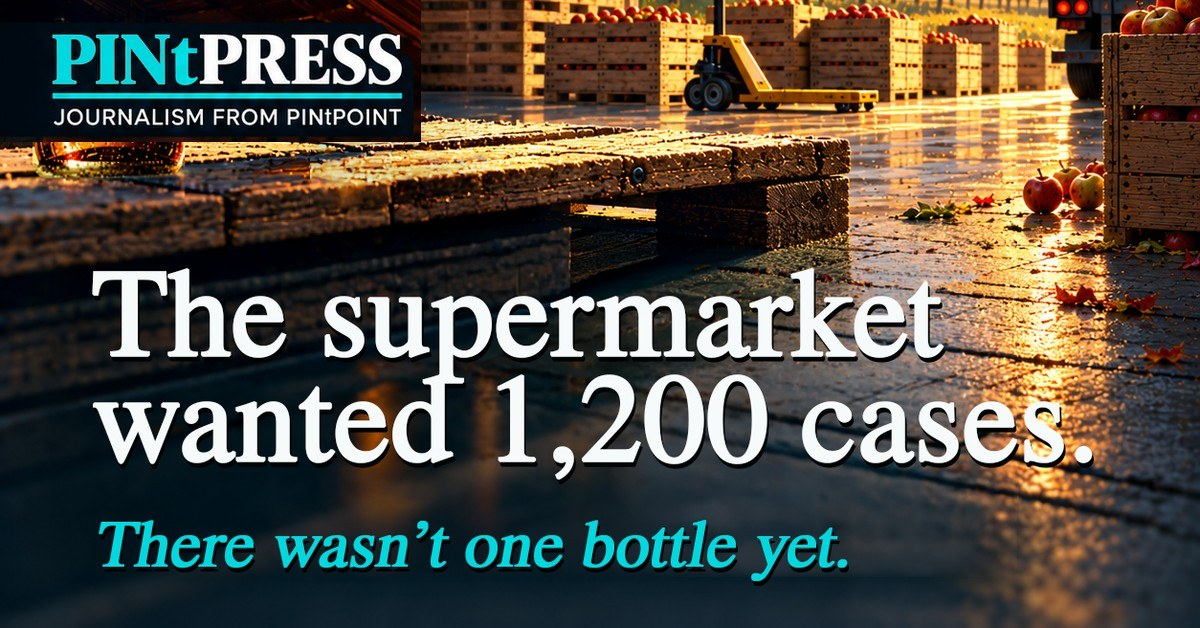
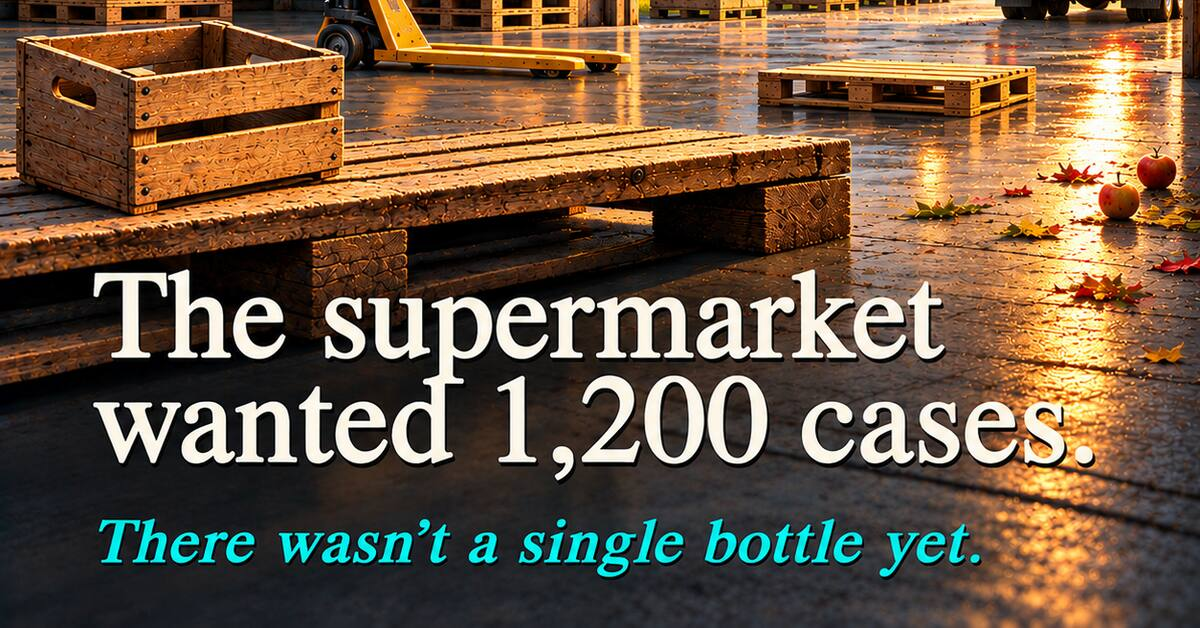
ACE: cut the X card from the square
Paul: we never make two images, the landscape is a crop that keeps the
title. So the -x is the bottom band of the new square, 1254x656 at
offset 598, scaled to 1200x628. Undistorted, both headline lines and
the teal subline intact, with the empty crate, the bare pallets and
the apples on the wet floor. The lockup is above the band and does not
survive, which is what cropping to the title costs.

twitter:image points at it again; og:image stays on the square.

diff --git a/blog/ace-the-importer-who-became-a-maker.html b/blog/ace-the-importer-who-became-a-maker.html
@@ -34,7 +34,7 @@
   <meta property="og:description" content="Jeffrey House had spent ten years selling other people&rsquo;s cider in America. ACE was his own, and he had sold it before he had made it." />
   <meta property="fb:app_id" content="1892965231402903" />
   <meta name="twitter:card" content="summary_large_image" />
-  <meta name="twitter:image" content="https://pintpoint.co.uk/blog/images/ace-the-importer-who-became-a-maker.jpg" />
+  <meta name="twitter:image" content="https://pintpoint.co.uk/blog/images/ace-the-importer-who-became-a-maker-x.jpg" />
   <meta name="twitter:image:alt" content="PINtPRESS card: &ldquo;The supermarket wanted 1,200 cases. There wasn&rsquo;t a single bottle yet.&rdquo; over an empty Californian packing warehouse at sunrise. Bare pallets, an idle pallet truck and one empty wooden crate inside; through the open roller door, a lorry backed up with its trailer doors open, bins of red apples waiting in the yard and the orchard beyond." />
   <link rel="preconnect" href="https://fonts.googleapis.com" />
   <link rel="preconnect" href="https://fonts.gstatic.com" crossorigin />
